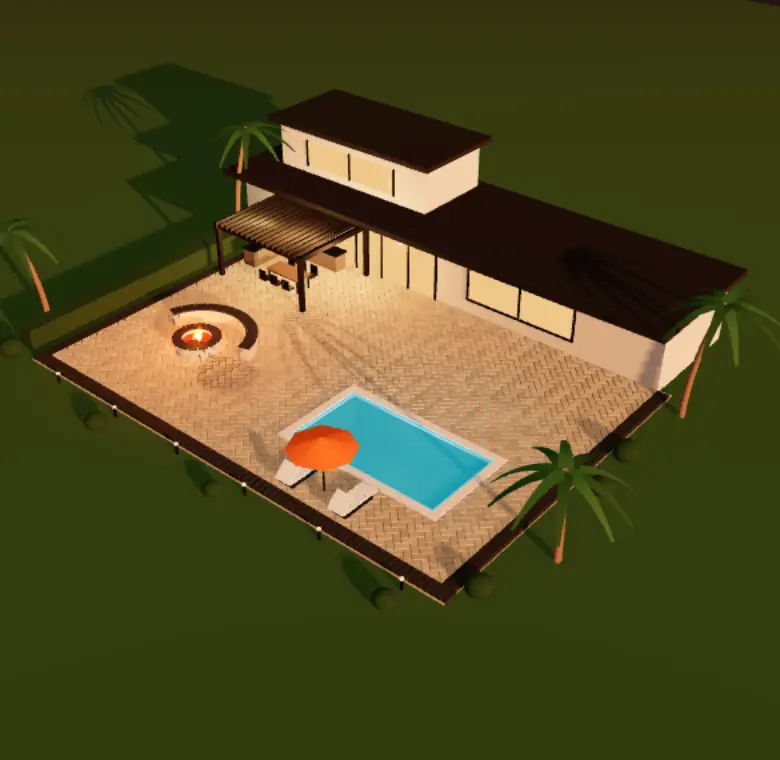
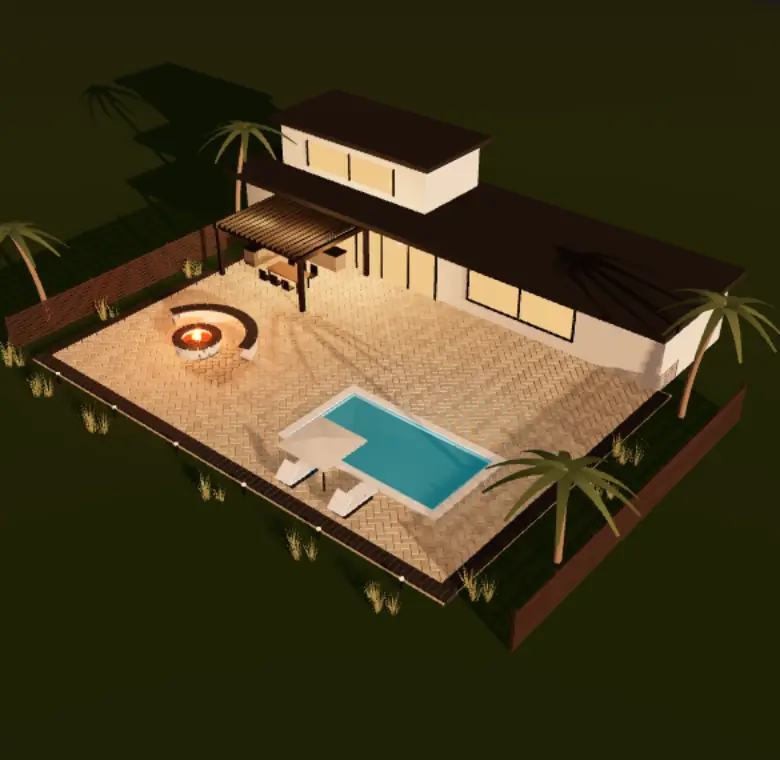
3D hero: architectural-render look (textured lawn, slatted fences, ornamental grasses, square canopy, muted water and sky)

diff --git a/src/app.js b/src/app.js
@@ -456,15 +456,16 @@ function palm(parent,x,z,h,lean,rotY,trunkMat,leafMats){
   const POS={patio:{pos:[-1.2,.35,-4.8],view:{t:[-1.5,0,-4.6],r:20,az:.3,el:.58}},pool:{pos:[6.6,.4,1.8],view:{t:[6.6,0,1.8],r:19,az:.9,el:.55}},kitchen:{pos:[-6.8,1.7,-7.4],view:{t:[-7.1,1.1,-7],r:13.5,az:.55,el:.1}},fire:{pos:[-5.2,1.15,1.8],view:{t:[-5.2,.4,1.4],r:14.5,az:-.45,el:.5}}};
   const SPOTS=heroApi.spots.map(x=>Object.assign({},x,POS[x.id]||POS.patio));
   const scene=new T.Scene(), cam=new T.PerspectiveCamera(33,1,.1,700);
-  const M={stucco:std(0xe7e1d6,.95),trim:std(0x1c1b1a,.55),roof:std(0x2b2927,.8),base:std(0xb3a280,1),lawn:std(0x3e6234,1),metal:std(0x2b2927,.45,.35),
+  const M={stucco:std(0xe7e1d6,.95),trim:std(0x1c1b1a,.55),roof:std(0x2b2927,.8),base:std(0xb3a280,1),lawn:new T.MeshStandardMaterial({color:0xffffff,roughness:1}),fence:std(0x3b3029,.82),metal:std(0x2b2927,.45,.35),
     stone:std(0x8c8174,.95),block:std(0xd6cdbf,.9),cap:std(0x3a3633,.7),granite:std(0x1d1d1d,.3),steel:std(0xc0c4c8,.3,.85),coping:std(0xece6db,.75),
-    white:std(0xf1eee8,.8),wood:std(0x7a5a3f,.75),orange:std(0xea680f,.7),trunk:std(0x8a735c,1),border:std(0x34322f,.8),hedge:std(0x2f5129,1),
-    leaf:new T.MeshStandardMaterial({color:0x3f6e35,roughness:.9,side:T.DoubleSide}),leaf2:new T.MeshStandardMaterial({color:0x31592b,roughness:.9,side:T.DoubleSide}),
+    white:std(0xf1eee8,.8),wood:std(0x7a5a3f,.75),canvas:std(0xd8d0c2,.95),trunk:std(0x80705f,1),border:std(0x34322f,.8),hedge:new T.MeshStandardMaterial({color:0x7c8656,roughness:.9,side:T.DoubleSide}),
+    leaf:new T.MeshStandardMaterial({color:0x5a6a42,roughness:.9,side:T.DoubleSide}),leaf2:new T.MeshStandardMaterial({color:0x4b5a37,roughness:.9,side:T.DoubleSide}),
     glass:new T.MeshStandardMaterial({color:0x1f2b31,roughness:.12,metalness:.4,emissive:0xffa75e,emissiveIntensity:0}),
-    tile:new T.MeshStandardMaterial({color:0x58b9cf,roughness:.35,emissive:0x12a8cc,emissiveIntensity:0}),
-    water:new T.MeshStandardMaterial({color:0x2fb0d0,roughness:.05,metalness:.25,transparent:true,opacity:.8,emissive:0x0a6c88,emissiveIntensity:0}),
+    tile:new T.MeshStandardMaterial({color:0x86b4ba,roughness:.4,emissive:0x0f6a78,emissiveIntensity:0}),
+    water:new T.MeshStandardMaterial({color:0x3f8f9c,roughness:.06,metalness:.25,transparent:true,opacity:.86,emissive:0x0a4f5c,emissiveIntensity:0}),
     bulb:new T.MeshBasicMaterial({color:0xffd59a}),lamp:new T.MeshStandardMaterial({color:0x2a2826,emissive:0xffc27a,emissiveIntensity:0})};
   M.tile.map=speckle({base:240,spread:14,rep:6});
+  M.lawn.map=grassTex(false,34);
   M.stone.map=speckle({base:220,spread:40,n:3200,dot:2.6,rep:2});
 
   /* sky dome */
@@ -537,12 +538,14 @@ function palm(parent,x,z,h,lean,rotY,trunkMat,leafMats){
   const LG=feature(6.4,5.5,2.2), lb=(w,h,d,m,x,y,z)=>addBox(LG,w,h,d,m,x-6.4,y,z-5.5);
   [5,7.8].forEach(x=>{lb(.7,.26,1.6,M.trim,x,.33,5.5);lb(.78,.1,1.9,M.white,x,.5,5.45);const b=lb(.78,.08,.85,M.white,x,.8,6.2);b.rotation.x=.75;});
   lb(.05,2.5,.05,M.metal,6.4,1.45,5.6);
-  const can=new T.Mesh(new T.ConeGeometry(1.45,.5,8),M.orange);can.position.set(0,2.62,.1);can.castShadow=true;LG.add(can);
+  const can=new T.Mesh(new T.ConeGeometry(1.75,.28,4,1),M.canvas);can.rotation.y=Math.PI/4;can.position.set(0,2.74,.1);can.castShadow=true;LG.add(can);
+  const hem=new T.Mesh(new T.BoxGeometry(2.42,.07,2.42),M.canvas);hem.position.set(0,2.58,.1);hem.castShadow=true;LG.add(hem);
   /* landscape */
-  addBox(scene,.9,1.1,16,M.hedge,-11.6,.55,-1.2);
+  const fence=(x,z0,z1)=>{for(let z=z0;z<=z1+.01;z+=2.4)addBox(scene,.14,1.9,.14,M.fence,x,.95,z);for(let k=0;k<10;k++)addBox(scene,.05,.13,z1-z0,M.fence,x+.06,.16+k*.18,(z0+z1)/2);};
+  fence(-11.9,-9.4,7.4);fence(16.6,-9.4,7.4);
   palm(scene,14.6,-8.2,5.8,.16,.3,M.trunk,[M.leaf,M.leaf2]);palm(scene,15.4,2.8,4.9,-.18,2,M.trunk,[M.leaf,M.leaf2]);
   palm(scene,-12.6,-7.8,6.2,.14,1,M.trunk,[M.leaf,M.leaf2]);palm(scene,-13,4.6,5,.2,4,M.trunk,[M.leaf,M.leaf2]);
-  [[14.3,-4,.6],[14.6,-1.5,.5],[14.2,6,.55],[-11.6,7.6,.6],[12,8.6,.45],[3,8.4,.4],[-4,8.6,.5]].forEach(([x,z,s])=>shrub(scene,x,z,s,M.hedge));
+  [[14.3,-4,.6],[14.6,-1.5,.5],[14.2,6,.55],[-11,7.9,.6],[12,8.6,.45],[3,8.4,.4],[-4,8.6,.5],[-11,-3,.55],[-11,2.5,.5],[8,8.5,.45],[-8,8.5,.5]].forEach(([x,z,s])=>{for(let k=0;k<3;k++)grassClump(scene,x+(k-1)*.45,z+(k%2)*.3,s*2,30,M.hedge,.18,.32);});
   [-8,-4,0,4,8,12].forEach(x=>{addBox(scene,.09,.5,.09,M.trim,x,.25,7.6);const c=new T.Mesh(new T.CylinderGeometry(.09,.09,.08,10),M.lamp);c.position.set(x,.54,7.6);scene.add(c);});
 
   /* lights */
@@ -556,8 +559,8 @@ function palm(parent,x,z,h,lean,rotY,trunkMat,leafMats){
   /* time of day */
   const col=h=>new T.Color(h).convertSRGBToLinear(), scol=h=>new T.Color(h);
   const TOD=[
-    {skyTop:scol('#4f86d1'),skyMid:scol('#dbe7f0'),skyBot:scol('#76876a'),fog:col('#cbd8e0'),fN:80,fF:240,hS:col('#e6f2ff'),hG:col('#5a4a3a'),hI:.8,sC:col('#fff3e0'),sI:2.4,sP:new T.Vector3(18,32,16),lawn:col('#4d7a3c'),hedge:col('#335a2c'),glass:.04,bulb:col('#4a4540'),lamp:0,tile:.05,water:.12,fire:.5,pool:0,perg:0,inside:0},
-    {skyTop:scol('#11172e'),skyMid:scol('#e37a3c'),skyBot:scol('#24160f'),fog:col('#6a463a'),fN:60,fF:180,hS:col('#e6c2b0'),hG:col('#2a1d16'),hI:.62,sC:col('#ffa468'),sI:1.55,sP:new T.Vector3(38,9,12),lawn:col('#3d5f31'),hedge:col('#2c4a26'),glass:1.1,bulb:col('#ffd59a'),lamp:1.5,tile:.55,water:.6,fire:3,pool:2.6,perg:1.7,inside:2}
+    {skyTop:scol('#7aa0cf'),skyMid:scol('#e6ecef'),skyBot:scol('#8c8f78'),fog:col('#d5dcdf'),fN:80,fF:240,hS:col('#e6f2ff'),hG:col('#5a4a3a'),hI:.8,sC:col('#fff3e0'),sI:2.4,sP:new T.Vector3(18,32,16),lawn:col('#e4e8d6'),hedge:col('#8e9663'),glass:.04,bulb:col('#4a4540'),lamp:0,tile:.05,water:.12,fire:.5,pool:0,perg:0,inside:0},
+    {skyTop:scol('#1a2133'),skyMid:scol('#c98c66'),skyBot:scol('#231b16'),fog:col('#5d4c43'),fN:60,fF:180,hS:col('#e6c2b0'),hG:col('#2a1d16'),hI:.62,sC:col('#ffbf93'),sI:1.5,sP:new T.Vector3(38,9,12),lawn:col('#c9ccb4'),hedge:col('#7a7f54'),glass:1.1,bulb:col('#ffd59a'),lamp:1.5,tile:.55,water:.6,fire:3,pool:2.6,perg:1.7,inside:2}
   ];
   const tc=new T.Color();
   function applyTod(v){
